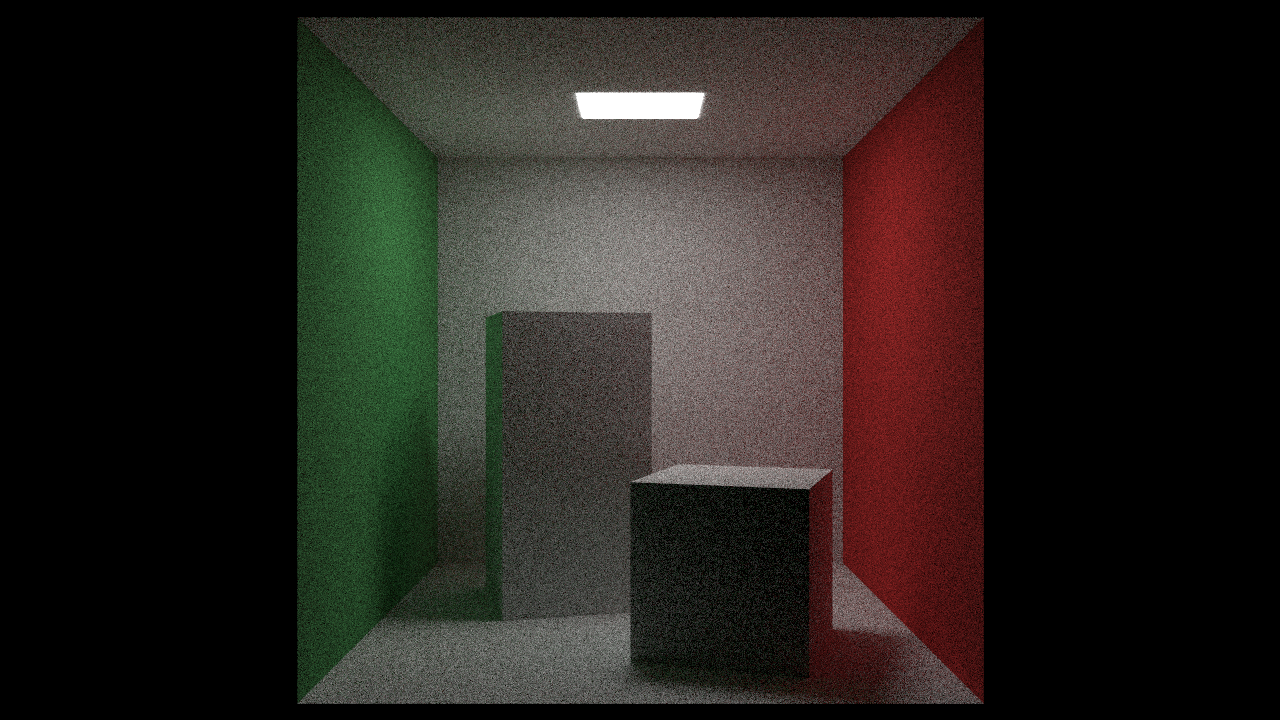
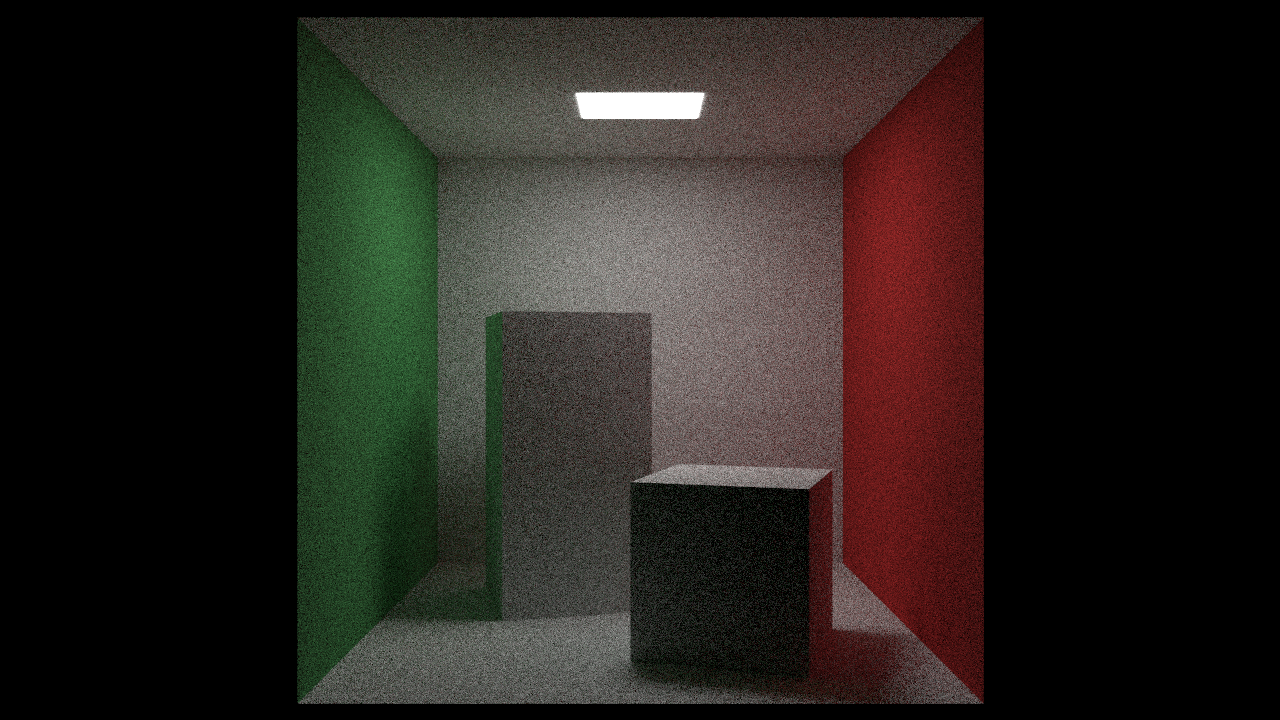
feat: update isotropic material for importance sampling

Changed region(s): [[0.2188, 0.0, 0.7812, 0.9778]]

diff --git a/src/common/material.h b/src/common/material.h
@@ -166,11 +166,12 @@ struct Isotropic {
         double& pdf) const {
         scattered = Ray {hit_rec.p, random_unit_vector(), ray_in.time()};
         attenuation = m_tex->value(hit_rec.u, hit_rec.v, hit_rec.p);
+        pdf = 1.0 / (4.0 * pi);
         return true;
     }
 
     double scattering_pdf(const Ray& ray_in, const HitRecord& hit_rec, const Ray& scattered) const {
-        return 0.0;
+        return 1.0 / (4.0 * pi);
     }
 
     pro::proxy<Texture> m_tex;
